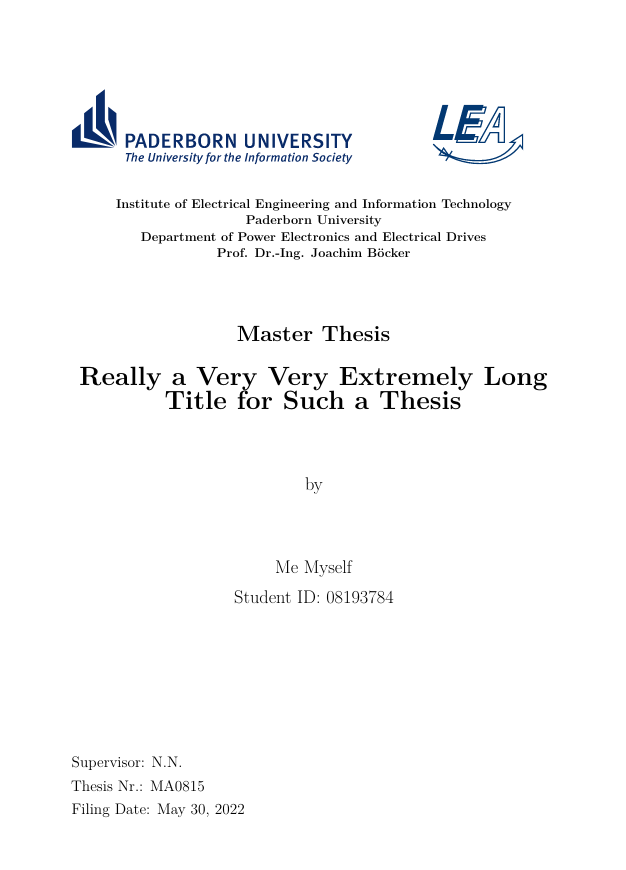
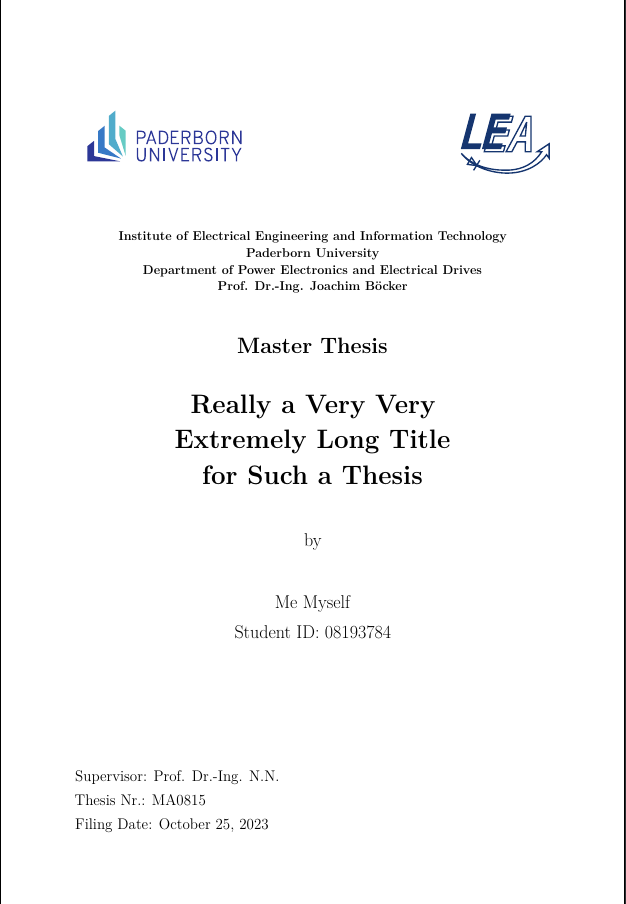
Updated preview

diff --git a/LEA_Thesis_Template/main.tex b/LEA_Thesis_Template/main.tex
@@ -1,32 +1,32 @@
 %\documentclass[online, deutsch]{LEAthesis}
 %\documentclass[deutsch]{LEAthesis}
 %\documentclass[english]{LEAthesis}
-%\documentclass[online,english]{LEAthesis}
-\documentclass[english,diss]{LEAthesis}
+\documentclass[online,english]{LEAthesis}
+%\documentclass[english,diss]{LEAthesis}
 %\documentclass[english,diss,final]{LEAthesis}
 
-% %% Data for Bachelor/Master
-% \title{Really a Very Very\\ Extremely Long Title\\ for Such a Thesis}
-% \shorttitle{Title in Short}
-% \author{Me Myself}
-% \thesistype{Master Thesis}
-% \thesisnr{MA0815}
-% \matrnr{08193784}
-% \supervisora{Prof. Dr.-Ing. Joachim Böcker}
-% \supervisorb{Prof. Dr.-Ing. N.N.}
-% \filingdate{\today}
-
-%% Data for Dissertation
-\title{Really a Very Very Extremely Long Title for Such a Thesis}
+%% Data for Bachelor/Master
+\title{Really a Very Very\\ Extremely Long Title\\ for Such a Thesis}
 \shorttitle{Title in Short}
 \author{Me Myself}
+\thesistype{Master Thesis}
+\thesisnr{MA0815}
+\matrnr{08193784}
 \supervisora{Prof. Dr.-Ing. Joachim Böcker}
 \supervisorb{Prof. Dr.-Ing. N.N.}
-\birthdate{30.02.1999}
-\birthplace{Hintertupfingen}
-\examdate{31.02.2025}
-\thesisnr{333}
-\publicationyear{2030}
+\filingdate{\today}
+
+% %% Data for Dissertation
+% \title{Really a Very Very Extremely Long Title for Such a Thesis}
+% \shorttitle{Title in Short}
+% \author{Me Myself}
+% \supervisora{Prof. Dr.-Ing. Joachim Böcker}
+% \supervisorb{Prof. Dr.-Ing. N.N.}
+% \birthdate{30.02.1999}
+% \birthplace{Hintertupfingen}
+% \examdate{31.02.2025}
+% \thesisnr{333}
+% \publicationyear{2030}
 
 \bibliography{references.bib}
 
